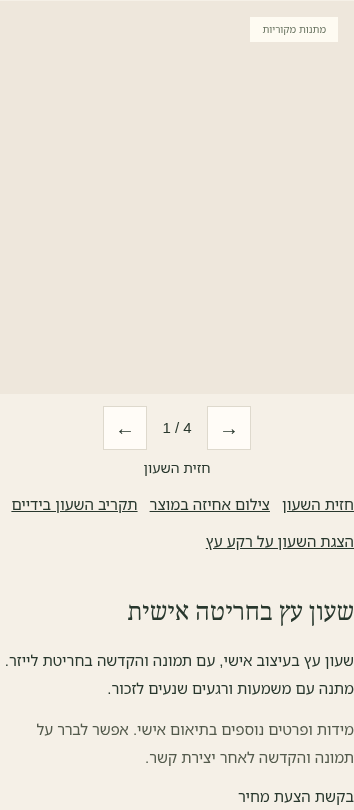
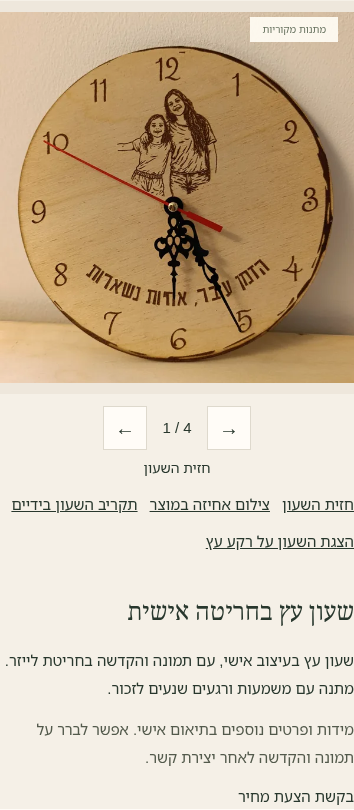
test: verify clock photo paint in no-JavaScript QA

diff --git a/docs/review/wul-014/REPORT_HE.md b/docs/review/wul-014/REPORT_HE.md
@@ -1,6 +1,22 @@
 # WUL-014 — שעון עץ בחריטה אישית
 
-Refs #25. בסיס `main`: `18f8f5c` (כולל WUL-012). ענף `feature/wul-014-personalized-clock`. בדיקות 15–16.10.2026; סגירת דוח 16.10.2026. אין Merge, Deploy או שינוי ב־ASSEMBL LAB או ב־Issues האחרים.
+Refs #25. בסיס `main`: `18f8f5c` (כולל WUL-012). ענף `feature/wul-014-personalized-clock`. בדיקות רגרסיה 15–16.10.2026; ריצת תיקון ממוקדת ועדכון דוח 17.10.2026. אין Merge, Deploy או שינוי ב־ASSEMBL LAB או ב־Issues האחרים.
+
+## תיקון בעקבות סקירת PR מ־17.10.2026
+
+[סקירת ראש הצוות](https://github.com/mataniar0/wood-u-like-site/pull/27#issuecomment-6237831464) זיהתה בצדק צילום no-JS ריק שסומן קודם כ־PASS. `figure.isVisible()` בדק תיבת פריסה בלבד; גם `complete` ומידות טבעיות חיוביות לבדם לא הוכיחו שהתמונה כבר צוירה. בשחזור התקבל צילום ריק למרות מדדי טעינה חיוביים. גלילה מפורשת אל התמונה והמתנה ל־`img.decode()` לפני הצילום פתרו את עיתוי ה־lazy/async. לא נמצא צורך לשנות HTML/CSS/JS של האתר או נכסי מוצר.
+
+הבדיקה מחוזקת כעת ב־5 רוחבים ללא JavaScript: טעינה ופענוח מוצלחים, מקור מאושר, `contain`, קישורי ארבע התמונות וחתימותיהן, כפתורים מושבתים וללא גלילה אופקית. בנוסף היא מפענחת **את קובץ צילום הכרטיס שנשמר בפועל** ובודקת את מרכז אזור התמונה: יותר מ־100 צבעי RGB, יותר מ־1,000 פיקסלים שנדגמו, ופחות מ־95% בצבע יחיד. זהו גלאי לצילום ריק, לצד בדיקות מקור/חתימה וסקירה חזותית; הוא אינו השוואת פיקסלים מלאה למקור. פענוח ה־PNG מתבצע בהקשר מבודד, בלי להפעיל JavaScript בדף הנבדק או ליצור בקשות רשת.
+
+הצילום הריק המקורי נשמר כבקרת כשל: אותו assertion דוחה אותו כצפוי. סיום פענוח מוגבל בזמן ב־Node, כי טיימרים בדף ללא JavaScript אינם רצים. צילום חדש ב־390 נבדק גם חזותית, וסקירת קוד עצמאית בדקה את מנגנון האימות. כל 10 תרחישי HE/EN וכל 5 תרחישי no-JS עברו מחדש; 8 נכסי WebP אומתו. בריצה זו: 0 בקשות חיצוניות ו־0 ניסיונות POST.
+
+| ראיה | קישור |
+|---|---|
+| לפני — הצילום הריק שנדחה | [HE 390 מקורי](qa-followup/before-he-390-clock-no-javascript.png) |
+| אחרי — תמונה מוצגת ללא JavaScript | [320](screenshots/he-320-clock-no-javascript.png), [390](screenshots/he-390-clock-no-javascript.png), [768](screenshots/he-768-clock-no-javascript.png), [1024](screenshots/he-1024-clock-no-javascript.png), [1440](screenshots/he-1440-clock-no-javascript.png) |
+| תוצאות מכונה, פענוח ונתוני פיקסלים לכל צילום, ובקרת הכשל | [results.json](results.json) |
+
+הציון הזמני בסקירת ראש הצוות הוא 88/100. הדוח והראיות המעודכנים מוגשים לבדיקה חוזרת; אין כאן ציון חדש או אישור Merge/Deploy.
 
 ## מוצר וגלריה
 
@@ -35,13 +51,16 @@ Refs #25. בסיס `main`: `18f8f5c` (כולל WUL-012). ענף `feature/wul-014
 
 ## תוצאות QA
 
+ריצת השעון הממוקדת בוצעה מחדש ב־17.10.2026. תוצאות רגרסיית הטופס/שיוך/מוצרים/שפות/Hero להלן הן מהריצות המתועדות ב־15–16.10.2026; הן לא הורצו שוב בתיקון הראיות, שאינו משנה את קוד האתר.
+
 | בדיקה | תוצאה |
 |---|---|
 | SHA-256, bytes, מידות ופענוח WebP לכל 8 הנכסים | 8 PASS |
 | 320/390/768/1024/1440 בעברית ובאנגלית | 10 תרחישי גלריה מלאים PASS |
 | ארבע תמונות בכל תרחיש, ALT/כתוביות, srcset/sizes/contain וגבולות פריסה | PASS |
 | כפתורים, wrap, חצים RTL/LTR, Home/End, שמירת מיקוד ושפה, מונה LTR תקין | PASS |
-| reduced-motion ללא אנימציה; ארבעה קישורי תמונה ללא JS | PASS; תרחיש no-JS נוסף |
+| reduced-motion ללא אנימציה; ארבעה קישורי תמונה ללא JS | PASS; 5 תרחישי no-JS עם פענוח ובדיקת פיקסלים בצילום |
+| בקרת כשל לצילום הריק המקורי | PASS — assertion דוחה אותו כצפוי |
 | בחירה מראש, שינוי שפה ורענון, מידות רשות, מזהה לא מוכר ו־__proto__ | PASS |
 | חסימת submit מתוכנת עם שדות מלאים בהגדרה הציבורית | PASS — 0 POST ניסיונות בשלבי הגלריה |
 | axe WCAG 2 A/AA ו־2.1 AA בדף הבית ובטופס | 0 violations בכללים שנבדקו |
@@ -58,7 +77,7 @@ Refs #25. בסיס `main`: `18f8f5c` (כולל WUL-012). ענף `feature/wul-014
 
 ## צילומי מסך
 
-47 צילומי QA ממוקדים נוצרו בריצה הסופית: 10 עמודים מלאים, 22 תצוגות כרטיס/תמונה, 4 מיקוד מקלדת, 10 טפסים ו־1 ללא JavaScript. ארבע התמונות הופעלו ונבדקו בכל רוחב ושפה; תמונות נוספות של מצבי הגלריה צולמו ב־390 וב־1440 בשתי השפות.
+51 צילומי QA ממוקדים נוצרו בריצה המעודכנת: 10 עמודים מלאים, 22 תצוגות כרטיס/תמונה, 4 מיקוד מקלדת, 10 טפסים ו־5 ללא JavaScript. הצילום הריק ההיסטורי נשמר בנפרד כבקרת כשל ואינו ראיית PASS. ארבע התמונות הופעלו ונבדקו בכל רוחב ושפה; תמונות נוספות של מצבי הגלריה צולמו ב־390 וב־1440 בשתי השפות.
 
 | רוחב | עמוד מלא HE | עמוד מלא EN | שעון HE | שעון EN | טופס HE | טופס EN |
 |---|---|---|---|---|---|---|
@@ -72,7 +91,7 @@ Refs #25. בסיס `main`: `18f8f5c` (כולל WUL-012). ענף `feature/wul-014
 
 ## מחזורי תיקון וגבולות
 
-**מחזור תיקון מימוש/QA אחד.** סקירה חזותית גילתה שב־RTL מונה `2 / 4` הוצג בסדר הפוך. נוסף `dir="ltr"` למונה, נוספה בדיקה מפורשת לכיוון, וכל 10 תרחישי הגלריה ותצוגות דף הבית/המוצרים המושפעות הורצו ונוצרו מחדש. בדיקה עצמאית נוספת אישרה את המונה ב־HE 320/390 ושמירת התמונה אחרי החלפת שפה. לא נמצאו ליקויים חוסמים נוספים.
+**שני מחזורי תיקון מימוש/QA בסך הכול.** במחזור הראשון סקירה חזותית גילתה שב־RTL מונה `2 / 4` הוצג בסדר הפוך. נוסף `dir="ltr"` למונה, נוספה בדיקה מפורשת לכיוון, וכל 10 תרחישי הגלריה ותצוגות דף הבית/המוצרים המושפעות הורצו ונוצרו מחדש. בדיקה עצמאית נוספת אישרה את המונה ב־HE 320/390 ושמירת התמונה אחרי החלפת שפה. במחזור השני, בעקבות סקירת PR מ־17.10.2026, תוקנו בדיקת no-JS וראיותיה כמתואר בתחילת הדוח. כל 15 תרחישי השעון המעודכנים עברו. לא זוהו כשלים נוספים בבדיקות אלה; נדרשת עדיין בדיקה חוזרת של ראש הצוות.
 
 בתהליך סגירת הדוח, בדיקת עזר לקריאת JSON הותאמה לכך שחמש קבוצות תרחישי השפה משתמשות במפתחות PASS לפי שם התרחיש, בנפרד מ־16 רשומות הפריסה עם status. לא שונו בדיקות האפליקציה או תוצאותיהן עקב כך.
 
@@ -93,4 +112,4 @@ mkdir -p docs/review/wul-014/products/screenshots
 WUL_REVIEW_DIR=docs/review/wul-014/products node tools/check-pizza-peel.cjs
 ```
 
-נדרשים Chromium, Playwright 1.62.1 ו־axe-core 4.10.3 ל־QA בלבד. אין build לאתר הסטטי. [CHANGED_FILES.txt](CHANGED_FILES.txt) מונה את כל הקבצים ששונו ונוספו. אין ZIP או PNG מקור ברשימה.
+נדרשים Chromium, Playwright 1.62.1 ו־axe-core 4.10.3 ל־QA בלבד. אין build לאתר הסטטי. [CHANGED_FILES.txt](CHANGED_FILES.txt) מונה את כל הקבצים ששונו ונוספו. אין ZIP או PNG של נכסי המקור ברשימה; קובצי PNG של צילומי QA נכללים.
